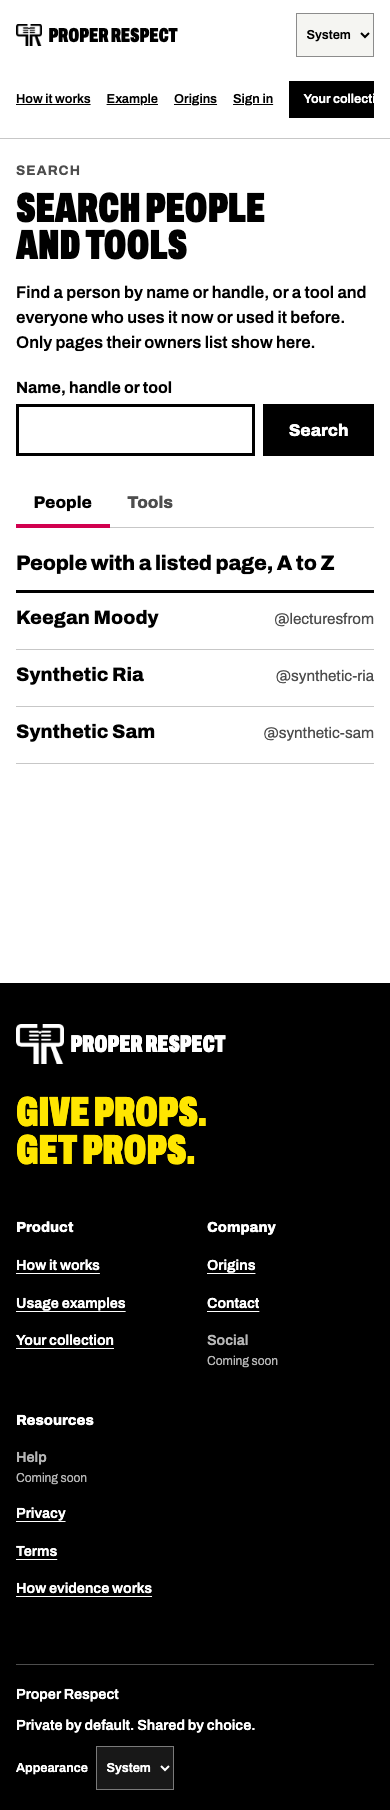
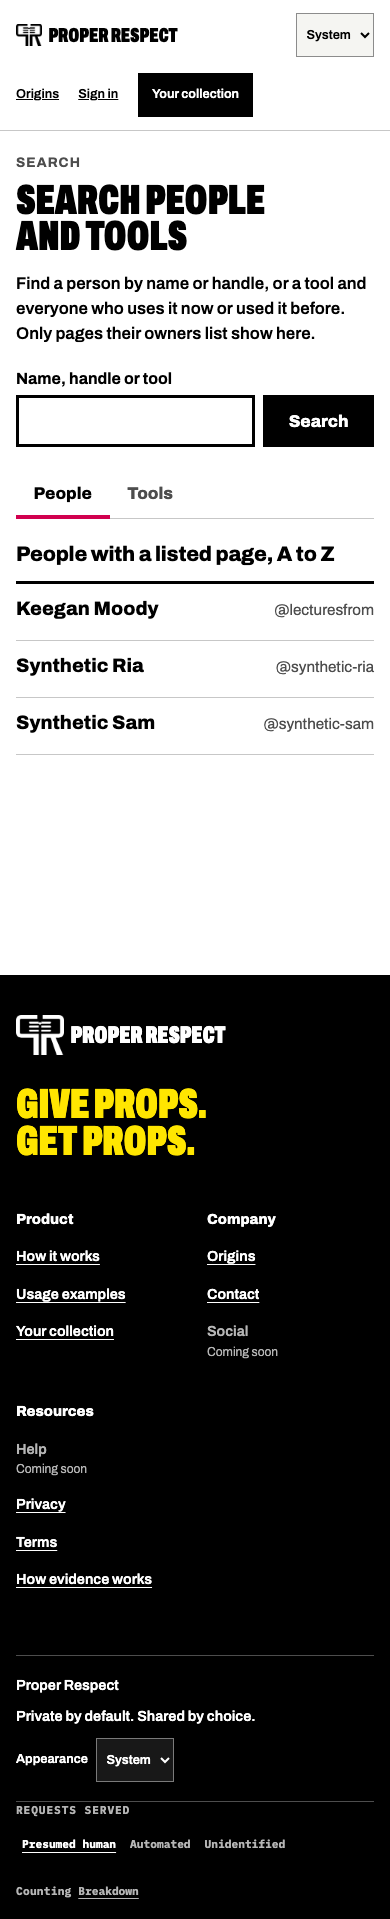
docs: retake the search screenshots on the merged header (C2, C3)

diff --git a/docs/verification/2026-11-17-search/README.md b/docs/verification/2026-11-17-search/README.md
@@ -8,4 +8,4 @@ Synthetic data: fixture mode (`PROPER_RESPECT_E2E_REFERENCE=1`) with no sign-in 
 | `search-1280.png`, `search-390.png` | `/search?q=clay&tab=tools`: the Tools tab with Clay and how many people list it, now and before. |
 | `tool-clay-1280.png`, `tool-clay-390.png` | `/tools/clay`: Uses it now (Synthetic Sam, Daily) and Used before (Synthetic Ria, Stopped using), each linking to their page. |
 
-On a 390 phone the site header's own navigation runs past the edge and scrolls sideways inside itself; that header belongs to the site frame, not to these pages.
+Retaken after Phase B merged, so the phone shots show the header that wraps instead of running past the edge.
